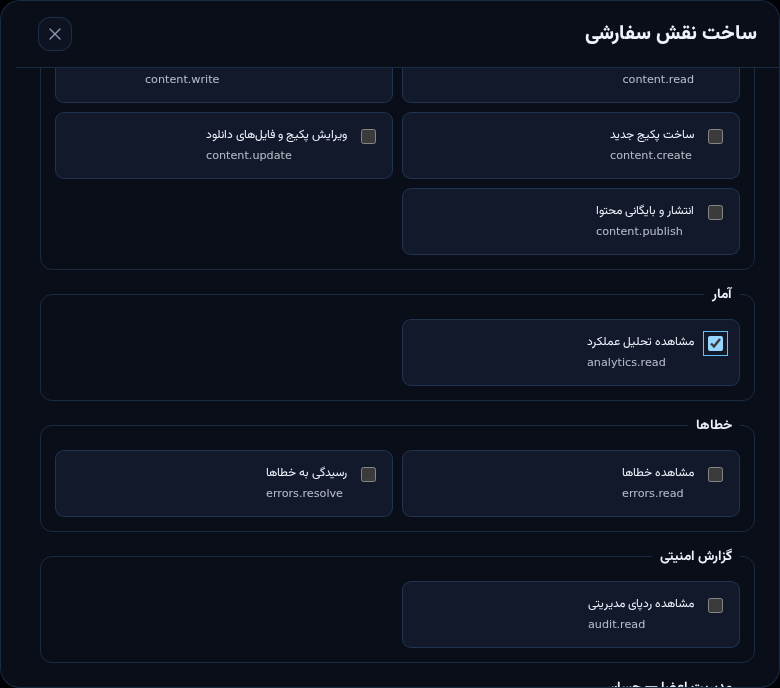
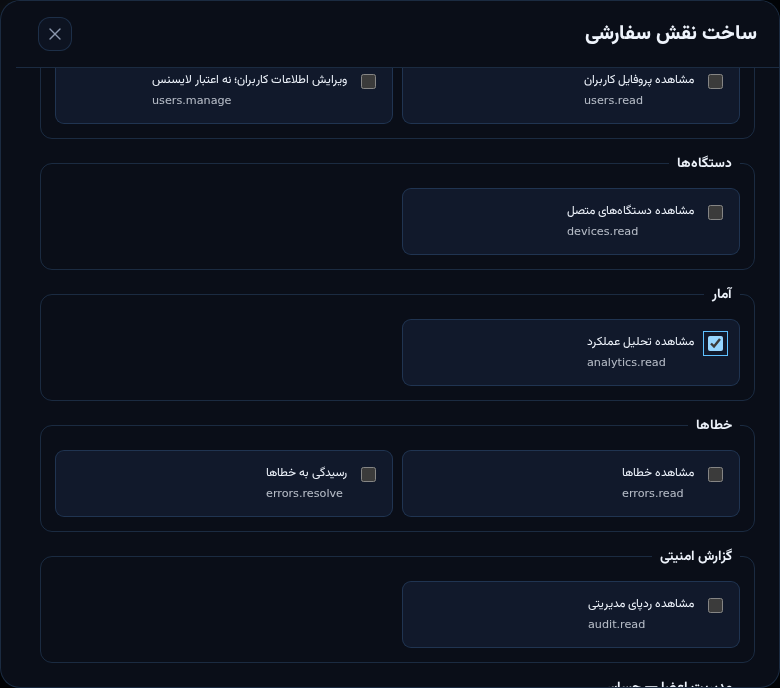
Document 15-section admin operations with real screenshots and expose isolated CI failure details

diff --git a/docs/admin-guide-fa.md b/docs/admin-guide-fa.md
@@ -1,0 +1,189 @@
+# راهنمای مدیریت UHM — ۱۵ بخش عملیاتی
+
+**ویرایش ۲۰۲۶/۱۱/۰۴، مطابق سورس مرحلهٔ دوم مأموریت 0.1.2.**
+
+این راهنما، گواه انتشار 0.1.2 نیست. نسخهٔ عمومی هنوز **0.1.1** است؛ امکانات جدیدِ زیر تا استقرار migrationها و API و ساخت نصاب جدید، الزاماً در تولید دیده نمیشوند. تصاویر، اسکرینشات واقعی رابط مشترک وب/دسکتاپ با API محلی و دادههای جداشدهٔ آزمایشیاند؛ نه تصویر حساب Owner واقعی و نه تصویر نصب Native. پوشش آزمایش و موانع عرضه در [گزارش مأموریت](mission-0.1.2-progress-fa.md) ثبت میشود.
+
+**اصل کار:** یک بازی، سه سطح Normal / Pro / VIP، یک دستگاه برای هر لایسنس؛ ورود اصلی فقط با کد لایسنس و اثبات کلید دستگاه. فایل بسته روی آپلودر مستقل شما میماند؛ پنل، manifest، لینک و کنترل دسترسی را نگهداری میکند، نه میزبانی فایل حجیم.
+
+## ۱. پیشنیاز و تشخیص محیط درست
+
+1. از آدرس پنل مجاز پروژه وارد شوید؛ به strip بالای صفحه نگاه کنید. «محیط پیشنمایش» یعنی دادهٔ ایزوله و نصب واقعی ممنوع، نه تولید.
+2. در محیط عملیاتی، اتصال API و هویت پروژه باید صحیح باشد. کلید عمومی برای راستیآزمایی است؛ هیچ private key، service-role secret یا کد کامل لایسنس نباید در مرورگر/راهنما/Git قرار گیرد.
+3. Backend قابلیتهای پشتیبانیشده را اعلام میکند. پنهانبودن نقش سفارشی، تاریخ تقویمی یا دستهبندی جدید، ممکن است به معنی قدیمیبودن سرور باشد؛ دکمه را با DevTools فعال نکنید.
+4. برای آزمون نصب، فقط یک پوشه/پروفایل آزمایشی کاملاً جدا انتخاب کنید. هرگز با لایسنس Owner فعال، دادهٔ واقعی کاربران یا پوشهٔ اصلی Assetto Corsa تست نکنید.
+
+**معیار موفقیت:** رابط بدون خطای startup باز میشود، محیط معلوم است و مجوزهای همان حساب نمایش داده میشوند. صفحهٔ سفید را با پاککردن لایسنس یا نصب مجدد بازی «رفع» نکنید؛ نسخهٔ build و خطای console/request ID را ثبت کنید.
+
+## ۲. ورود مدیر با لایسنس و دستگاه
+
+1. Owner برای همکار یک لایسنس جدا صادر و در «تیم و دسترسیها» به همان شناسه مجوز میدهد.
+2. همکار کد را روی دستگاه خودش فعال میکند؛ ورود پنل با «ورود با لایسنس این دستگاه» انجام میشود.
+3. Backend اعتبار لایسنس، دستگاه، entitlement و دسترسی فعلی را بررسی میکند. توکن پنل کوتاهمدت است؛ تغییر نقش در درخواست بعدی اعمال میشود، نه فقط بعد از خروج کاربر.
+4. تعویض کامپیوتر به آزادسازی مجاز دستگاه نیاز دارد. گرفتن عکس کد یا انتقال کلید خصوصی دستگاه راهحل تعویض دستگاه نیست.
+
+کد کامل فقط هنگام صدور دیده میشود. گمشدن کد، مجوز استخراج hash یا بازسازی کلید امضای اصلی نیست. هیچ حساب ایمیل/رمز جداگانهٔ اجباری برای مدیران عادی ساخته نمیشود.
+
+## ۳. شناخت داشبورد و وضعیتها
+
+- **لایسنسها:** صدور، پرونده، اعتبار، سطح و تاریخچه؛ نمایش و هر تغییر مجوز جدا دارد.
+- **کاربران:** نام نمایشی، یادداشت داخلی و برچسبها، بدون اختیار ضمنی تمدید یا reset.
+- **دستگاهها:** اتصال بر اساس کلید دستگاه، نه حدسزدن از IP.
+- **پکیجها / نسخهها:** پیشنویس و انتشار تغییرناپذیر؛ فایل نصبشدهٔ کاربر با ویرایش پنل عوض نمیشود.
+- **تحلیل، خطاها، رویدادها، تیم و کنترل سرویس:** داده/عملیات فقط طبق مجوز Backend.
+
+«فعالنشده» با «فعال» فرق دارد؛ «شروع در آینده» قبل از starts_at و «منقضی» بعد از expires_at است. تعلیق/لغو بر نمایش اعتبار اولویت دارد. آرشیو، بایگانی مدیریتی است و با حذف دائمی سابقه یکی نیست. اعداد داشبورد از دادهٔ ثبتشده میآیند؛ گزارشنشدن رویداد، اثبات موفقیت نصب نیست.
+
+## ۴. صدور Normal، Pro و VIP
+
+1. «لایسنسها → تولید لایسنس» را باز کنید.
+2. سطح، تعداد و مدت را وارد کنید؛ نمونهٔ امن آزمایشگاهی: **Normal، یک کد، یک روز**.
+3. بدون تاریخ ثابت، مدت از اولین فعالسازی شروع میشود. برای بازهٔ مشخص، شروع مجاز و انقضای ثابت را با دقت وارد کنید؛ فرم زمان محلی را به UTC تبدیل میکند.
+4. شروع باید پیش از انقضا باشد. تاریخ ثابت بعد از فعالسازی عقب نمیرود تا کاربر مدت تازهای بگیرد.
+5. کد را یکبار از خروجی کپی و خصوصی تحویل دهید. در اسکرینشات عمومی و گزارش خطا قرار ندهید.
+
+![فرم واقعی صدور با بازهٔ تقویمی؛ دادهٔ جداشده](screenshots/mission-0.1.2/license-window.png)
+
+**کنترل:** لایسنس در فهرست با وضعیت فعالنشده/شروع آینده دیده شود؛ فعالسازی زودهنگام و اتصال دستگاه دوم باید رد شوند. یک VIP اجازهٔ تمام سطوح پایینتر دارد، اما نقش مدیریتی از tier اشتراک نتیجه نمیشود.
+
+## ۵. ویرایش، تمدید، تعلیق، لغو و بایگانی
+
+1. شناسه/پیشوند/نام/برچسب را جستوجو و پرونده را باز کنید؛ پیش از تغییر، شناسه و دستگاه را تطبیق دهید.
+2. مشخصات داخلی، سطح، تاریخ و تمدید مستقلاند. ویرایش بازهای که انقضا را زیاد میکند، علاوه بر ویرایش به `licenses.extend` نیاز دارد.
+3. برای توقف موقت «تعلیق» و سپس «ازسرگیری»؛ برای لغو اعتبار «لغو» را استفاده کنید. لغو، معادل حذف ردیف و پاککردن audit نیست.
+4. بایگانی برای خارجکردن مورد از کار روزمره است. قبل از هر عملیات حساس متن تأیید را بخوانید؛ تغییر حساب مدیریتی خود یا مدیر قویتر محدود میشود.
+5. خطای تداخل ویرایش یعنی دیگری revision را عوض کرده است؛ صفحه را تازه و تغییرات را مقایسه کنید. ذخیرهٔ کورِ فرم قدیمی راهحل نیست.
+
+**محدودیت آفلاین:** لغو آنلاین نمیتواند مجوزی را که پیشتر برای حداکثر بازهٔ آفلاین صادر شده، لحظهای از کامپیوتر قطعشده پاک کند. هیچ ادعای «غیرقابلشکستن» یا TPM اجباری وجود ندارد.
+
+## ۶. کاربران و حریم اطلاعات پروفایل
+
+1. «کاربران» را باز کنید؛ نام، UUID یا برچسب را جستوجو کنید. فیلتر سطح و مرتبسازی نام/جدیدترین/انقضا مستقل است.
+2. «ویرایش پروفایل» فقط نام، یادداشت و برچسب را تغییر میدهد. برای مثال «کاربر آزمایشگاه» با `qa, isolated`؛ اطلاعات واقعی شخص را در fixture نگذارید.
+3. ذخیره را انجام دهید و نتیجه را دوباره جستوجو کنید. tier، زمان انقضا و اتصال دستگاه نباید بهواسطهٔ این فرم عوض شوند.
+4. `users.read` فقط خواندن است؛ `users.manage` بهتنهایی فهرست را باز نمیکند. مدیر write-only فرم «ویرایش با شناسهٔ دقیق» دارد؛ چون اطلاعات فعلی دریافت نمیشود، مقادیر فرم **جایگزین** نام/یادداشت/برچسب قبلی میشوند.
+
+![فهرست واقعی کاربران آزمایشی با جستوجو](screenshots/mission-0.1.2/users.png)
+
+API فهرست کاربران، hash کد و اثر انگشت دستگاه را در پاسخ این مجوز قرار نمیدهد. یادداشت داخلی را محل ذخیرهٔ رمز آرشیو یا کد کامل لایسنس نکنید.
+
+## ۷. اتصال یکدستگاهی و آزادسازی امن
+
+1. برای مشاهدهٔ رجیستری، مجوز `devices.read` لازم است؛ در API قدیمی، رابط از مسیر سازگارِ `licenses.read` استفاده میکند.
+2. پیش از آزادسازی، از مالک لایسنس هویت و علت تعویض دستگاه را بپرسید. شناسهٔ دستگاه را از روی IP حدس نزنید.
+3. مشاهدهٔ دستگاه، اختیار reset نیست. آزادسازی به `licenses.reset` و تأیید حساس نیاز دارد؛ حساب خود و مدیر قویتر حفاظت میشوند.
+4. پس از reset، دستگاه قبلی در تمدید/نصب آنلاین بعدی دیگر معتبر نیست. دستگاه جدید باید جریان فعالسازی و اثبات کلید را بگذراند.
+5. audit عملیات را بررسی کنید. کلید دستگاه قبلی را به دستگاه جدید کپی نکنید و برای رفع مشکل، کلید امضای لایسنس یا updater را نچرخانید.
+
+**کنترل مجوز:** دارندهٔ فقط `devices.read` نباید نام/یادداشت خصوصی پروفایل، کد لایسنس یا اختیار تمدید/لغو بگیرد.
+
+## ۸. تیم، نقش سفارشی و ۲۶ مجوز مستقل
+
+1. در «تیم و دسترسیها → ساخت نقش»، نام روشن، توضیح کوتاه و حداقل مجوز لازم را انتخاب کنید.
+2. نمونهٔ بازبین: `content.read` + `analytics.read`؛ نه publish و نه دیدن رمز فایل.
+3. یک یا چند نقش فعال به شناسهٔ لایسنس همکار بدهید؛ مجوز مستقیم، مستقل از نقشهای انتخابشده جمع میشود.
+4. غیرفعالسازی نقش فقط مجوزهای همان نقش را برمیدارد؛ مجوز مستقیم و نقش دیگر باقی میمانند. پس از تغییر اثرگذار، تأیید و audit را بررسی کنید.
+5. مدیر غیرمالک نمیتواند از طریق نقش واسطه اختیاری بالاتر از خودش واگذار کند. آخرین Owner حفاظت میشود.
+
+![ساخت نقش با گروهبندی مجوزهای واقعی](screenshots/mission-0.1.2/custom-role.png)
+
+![چند نقش همزمان و مجوزهای مستقیم برای عضو آزمایشی](screenshots/mission-0.1.2/member-grants.png)
+
+| گروه | مجوزهای مستقل |
+| --- | --- |
+| لایسنس | `licenses.read/create/update/extend/suspend/revoke/reset/archive` |
+| کاربران و دستگاه | `users.read`، `users.manage`، `devices.read` |
+| محتوا | `content.read/create/update/publish/delete/versions`، `categories.manage` |
+| مشاهده و رسیدگی | `analytics.read`، `errors.read`، `errors.resolve`، `audit.read` |
+| حساس | `team.manage`، `roles.manage`، `service.manage` |
+| سازگاری قدیمی | `content.write`؛ معادل ساخت/ویرایش قدیمی، نه انتشار/حذف/بازگردانی |
+
+«Owner» همهٔ مجوزها را دارد. قالب نقش بهتنهایی نباید مجوزِ لغوشده را دوباره بسازد. پنهانکردن دکمه، جای کنترل API نیست؛ درخواست مستقیم غیرمجاز هم باید 403 بگیرد.
+
+## ۹. دستهبندی، اطلاعات و کاور پکیج
+
+1. «پکیجها → دستهبندیها» را با `categories.manage` باز کنید؛ شناسهٔ انگلیسی ثابت و نام نمایشی بسازید.
+2. غیرفعالکردن دسته، انتشار جدید را متوقف میکند؛ نسخهٔ قبلی کاربران را خودکار حذف نمیکند. تغییر نام به rebuild لانچر نیاز ندارد.
+3. «پکیج جدید → ۱ · اطلاعات»: نام، slug، نسخهٔ سهقسمتی، tier، دسته و توضیح را وارد کنید. نامشخص را حدس نزنید؛ author/brand خالی بهتر از اطلاعات ساختگی است.
+4. نوع محتوا، سازنده، برند، tags، تصویر اصلی/تصاویر اضافی، changelog و پیشنیازها را ثبت کنید. تصویر باید HTTPS عمومی یا تصویر داخلی مجاز باشد؛ URL صفحهٔ ورود، عکس دانلود مستقیم نیست.
+5. `test` از کاتالوگ عمومی پنهان است. زمانبندی انتشار، با منطقهٔ زمانی مدیر کنترل شود؛ snapshot قبلی تا موعد/شرایط مناسب در دسترس میماند.
+
+![مدیریت دستهبندی با دادهٔ آزمایشی](screenshots/mission-0.1.2/categories.png)
+
+![مرحلهٔ اطلاعات بستهساز واقعی](screenshots/mission-0.1.2/builder-metadata.png)
+
+## ۱۰. فایلها، mirror، حجم، هش و رمز آرشیو
+
+1. «۲ · فایلها → افزودن فایل»: نام واقعی فایل، نوع ZIP/RAR/7z/file/EXE و لینک مستقیم HTTPS را وارد کنید.
+2. فایل باینری روی آپلودر مستقل خودتان میماند. لینک صفحهٔ تبلیغ/کپچا/کوکیدار یا موقتِ منقضیشونده، دانلود قابلاتکا نیست. محدودیت حجم، نگهداری و دانلود رایگان آپلودر را واقعاً بررسی کنید.
+3. «انتخاب فایل و محاسبهٔ هش / حجم» فقط فایل انتخابی را محلی میخواند؛ آپلود نمیکند. مرورگر تا ۳۲ MiB محدود است؛ Native برای فایل بزرگ جریانی میخواند. گزینهٔ مستقل ویندوز:
+
+   ```powershell
+   (Get-FileHash -Algorithm SHA256 .\package.zip).Hash.ToLower()
+   (Get-Item .\package.zip).Length
+   ```
+
+4. SHA-256 باید دقیقاً ۶۴ رقم هگز کوچک و حجم، تعداد **بایت** واقعی باشد. تغییر یک بایت فایل نیازمند هش/حجم تازه و نسخهٔ انتشار جدید است.
+5. mirrorها باید همان بایتها را بدهند؛ بیش از پنج لینک جایگزین برای هر فایل پذیرفته نمیشود. ترتیب فایلها را با کنترل بالا/پایین مرتب کنید.
+6. رمز آرشیو اختیاری و حساس است؛ رمز حساب کاربری را اینجا نگذارید. همهٔ بخشهای آرشیو چندقسمتی را با نام اصلی اضافه کنید؛ مرحلهٔ extract فقط قسمت اول را انتخاب کند.
+
+![محاسبهٔ واقعی هشِ fixture محلی بدون آپلود](screenshots/mission-0.1.2/builder-files.png)
+
+فایل EXE خودکار اجرا نمیشود. اعتبار لینک در فرم، تضمین سالمبودن میزبان یا محتویات آرشیو نیست؛ Native حجم، هش، DNS/redirect و استخراج ایمن را هنگام عملیات بررسی میکند.
+
+## ۱۱. مراحل نصب، تغییر نام و پیشنیاز
+
+1. «۳ · مراحل نصب» را باز کنید؛ هر مرحله یک فایل منبع، action، مقصد نسبی و سیاست تداخل دارد.
+2. برای extract، زیرپوشهٔ منبع را بدون `/` ابتدایی وارد کنید؛ مثال: `bundle/car`.
+3. مقصد مستقل مانند `content/cars/uhm_fixture_car`، پوشهٔ انتخابی را با نام دلخواه در جای درست مینشاند. مقصد نسبت به ریشهٔ بازی است؛ مسیر مطلق، `..`، `.uhm`، reparse/symlink و نام رزروشده مجاز نیست.
+4. برای copy، فایل مستقیم و نام/مسیر مقصد را مشخص کنید. ZIP/RAR/7z را برای استخراج با action درست انتخاب کنید.
+5. مراحل را اضافه/حذف/مرتب کنید؛ depends_on باید فقط به مرحلهٔ بالاترِ موجود اشاره کند. حذف یک فایل، مراحل وابستهٔ همان فایل را هم حذف میکند؛ قبل از ذخیره دوباره مرور کنید.
+6. پیشنیاز پکیج باید منتشر و برای tier این بسته قابل دریافت باشد. cycle، وابستگی ناموجود، مرحلهٔ ناشناخته و بیش از ۳۰ پکیج در plan رد میشوند.
+
+![زیرپوشهٔ منبع و مقصد مستقل در مرحلهٔ نصب](screenshots/mission-0.1.2/builder-steps.png)
+
+برای فایل شخصی، پیشفرض امن «توقف در تداخل» است. «بکاپ و جایگزینی» هم بدون پیشنمایش واقعی و تأیید نصب اجرا نمیشود. سؤال سیاست rollback فایل شخصی بدون پاسخ رد شده است؛ هیچ مجوزی برای overwrite خودکار استنباط نشده است.
+
+## ۱۲. بازبینی، ذخیره، آزمون و انتشار
+
+1. «۴ · بازبینی» را باز کنید. خطاهای قرارداد و پیشنیاز را اصلاح و مجموع فایل/حجم/مسیر را بررسی کنید.
+2. این نما فقط **مسیر اعلامشده** است، نه فهرست حدسزدهٔ داخل آرشیو. درخت واقعی پس از استخراج Native و قبل از تغییر بازی ساخته میشود.
+3. «ذخیره پیشنویس» و سپس بازکردن مجدد: revision و فایلهای ذخیرهشده را کنترل کنید. پیشنویس معتبرِ بدون فایل ممکن است ذخیره شود، اما قابل انتشار نیست.
+4. «اعتبارسنجی سرور» روی نسخهٔ **ذخیرهشده** کار میکند. تغییرات ذخیرهنشدهٔ فرم، بهصورت پنهانی منتشر نمیشوند.
+5. «نصب تست روی این دستگاه» فقط در Native، با لایسنس معتبر همان دستگاه و پس از انتخاب مسیر آزمایشی مناسب انجام میشود. قبل از هر اعمال، preview واقعی را بخوانید؛ لغو preview باید نصب را متوقف کند.
+6. پس از آزمون، «انتشار نسخه» و تأیید را بزنید. snapshot منتشرشده تغییرناپذیر است؛ ویرایش بعدی، نسخهٔ تازه میخواهد.
+
+![بازبینی واقعی؛ هشدار روشن دربارهٔ محدودیت preview](screenshots/mission-0.1.2/builder-review.png)
+
[1 lines of base64/hex data omitted]
+
+## ۱۳. نسخهٔ جدید، بازگردانی snapshot و حذف منطقی
+
+1. برای ویرایش انتشار فعلی، شمارهٔ بالاتر انتخاب و پیشنویس تازه بسازید؛ نسخهٔ قبلی تا انتشار تازه در کاتالوگ باقی میماند، مگر عمداً بایگانی شود.
+2. «نسخهها → جزئیات انتشار → ساخت پیشنویس از این نسخه» با `content.versions`، manifest قدیمی را با شمارهٔ **جدیدتر** برمیگرداند. این عملیات، فایل کاربران را downgrade نمیکند.
+3. `content.delete` فقط حذف منطقی از کاتالوگ است: slug را دقیق تأیید کنید. audit و release history باقی میمانند؛ نصب موجود کاربران حذف نمیشود.
+4. حذف بستهای که snapshot زندهٔ دیگری به آن وابسته است رد میشود. ابتدا وابستگیها و انتشار جانشین را هماهنگ کنید؛ پاککردن رکورد دیتابیس میانبر مجاز نیست.
+5. تداخل revision را با refresh/مقایسه حل کنید، نه تکرار کور. rollback فیزیکی فایلها جریان جدا دارد؛ بازیابی crash journal، مجوز overwrite فایل شخصی بعد از نصب نیست.
+
+## ۱۴. دانلود، کتابخانه، خطا و عملیات آفلاین
+
+- **دانلود:** Native لینک اصلی و سپس mirror را امتحان میکند؛ هش/اندازهٔ غلط نباید فایل نصبشده تولید کند. pause/resume در انتقال و cancel در مرحلهٔ مجاز انجام میشود؛ اعمال تراکنشی را با kill دستی قطع نکنید.
+- **کمبود فضا/قطع شبکه:** فضای staging، بکاپ و cache لازم است. بعد از اتصال، خطای دقیق را بررسی کنید؛ فایل ناتمام را بهعنوان نصب موفق علامت نزنید.
+- **کتابخانه:** scan، محتوای دستی/Content Manager و متعلق به لانچر را تفکیک میکند؛ metadata خواندهنشده «نامشخص» است. شمارش presence-only کتابخانه، اثبات SHA تمام فایلها نیست.
+- **حذف محتوای محلی:** فایلها را در preview انتخاب کنید؛ برای محتوای خارجی هشدار و تأیید جدا لازم است. quarantine/بازیابی را با حذف کاتالوگ اشتباه نگیرید.
+- **آفلاین:** رویدادها در outbox پایدار صف میشوند و فقط موارد تأییدشدهٔ سرور پاک میشوند. refresh اشتراک بعد از اتصال ضروری است؛ UI آفلاین نباید نصب ساختگی نمایش دهد.
+- **خطاها/رویدادها:** request ID، شناسهٔ بسته/نسخه، زمان و وضعیت را ثبت کنید؛ کد لایسنس، توکن، URL امضاشده و رمز آرشیو را گزارش نکنید. `errors.read` و `errors.resolve` مستقلاند.
+
+پیام `EDIT_CONFLICT`: فرم قدیمی؛ `CATEGORY_UNAVAILABLE`: دستهٔ غیرفعال/ناموجود؛ `PACKAGE_IN_USE`: وابستگی زنده؛ `RELEASE_IMMUTABLE`: شمارهٔ تازه لازم؛ `DEPENDENCY_UNAVAILABLE`: پیشنیاز منتشر/دردسترس نیست؛ `TIER_REQUIRED`: سطح کافی نیست. اگر خطای ناشناخته بود، با دادهٔ واقعی تولید آزمایش نکنید.
+
+## ۱۵. آپدیت لانچر، بازیابی و چکلیست عرضه
+
+بسته/لینک/tier/نسخهٔ محتوا معمولاً rebuild لانچر نمیخواهد؛ تغییر کد Native یا رابطِ نصابشده نیازمند release لانچر است.
+
+1. منبع رسمی updater و کلید عمومی ثابت حفظ میشود؛ کلید امضای updater از لایسنس مستقل است. هیچ private key تازهای را به مخزن/چت نیاورید.
+2. سیاست برنامه: بررسی startup و دورهای، دانلود محدود و بررسی امضا در پسزمینه؛ نصب خودکار فقط خروج امن/اجرای بعدی، بدون قطع بازی یا عملیات نصب جاری.
+3. گزینهٔ بررسی خودکار و بررسی دستی مستقلاند. خاموشکردن بررسی، آپدیت آماده/دانلود درحال اجرا را الزاماً لغو نمیکند.
+4. قبل از عرضه، fresh install، ارتقای **نصاب عمومی واقعی 0.1.1**، حفظ تنظیمات/لایسنس/فایل، امضای دستکاریشده، شکست نصب و بازیابی باید تأیید شوند. fixture قدیمی 0.0.0 جای این معیار نیست.
+5. تا قبولی، نسخه و feed نباید 0.1.2 اعلام شوند. بعد از قبولی: bump هماهنگ npm/lock/Cargo/Tauri، CI Windows، امضا، artifact/checksum/feed، دانلود دوباره و بررسی عمومی، و سپس گزارش نهایی.
+
+**وضعیت این راهنما:** رابطها و آزمونهای backend/browser جدید وجود دارند؛ وضعیت نهایی Native/upgrade/deploy/release فقط از [گزارش مأموریت](mission-0.1.2-progress-fa.md) و run همان commit خوانده شود. فعلاً این متن نباید بهعنوان اعلام «نسخهٔ 0.1.2 آماده است» بازنشر شود.
